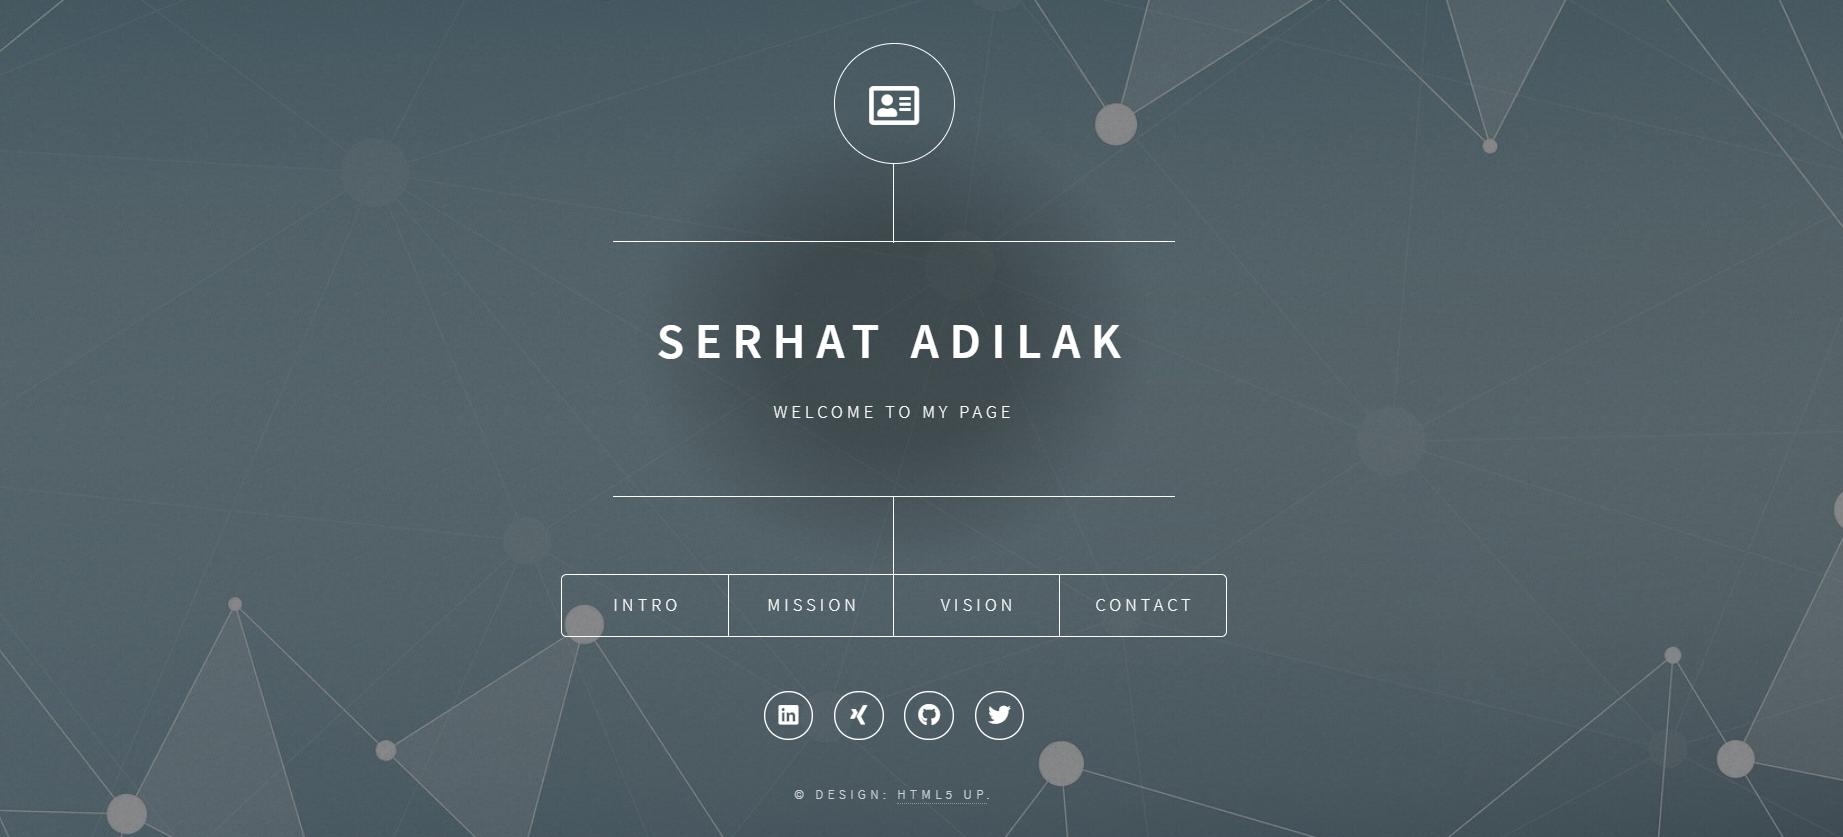
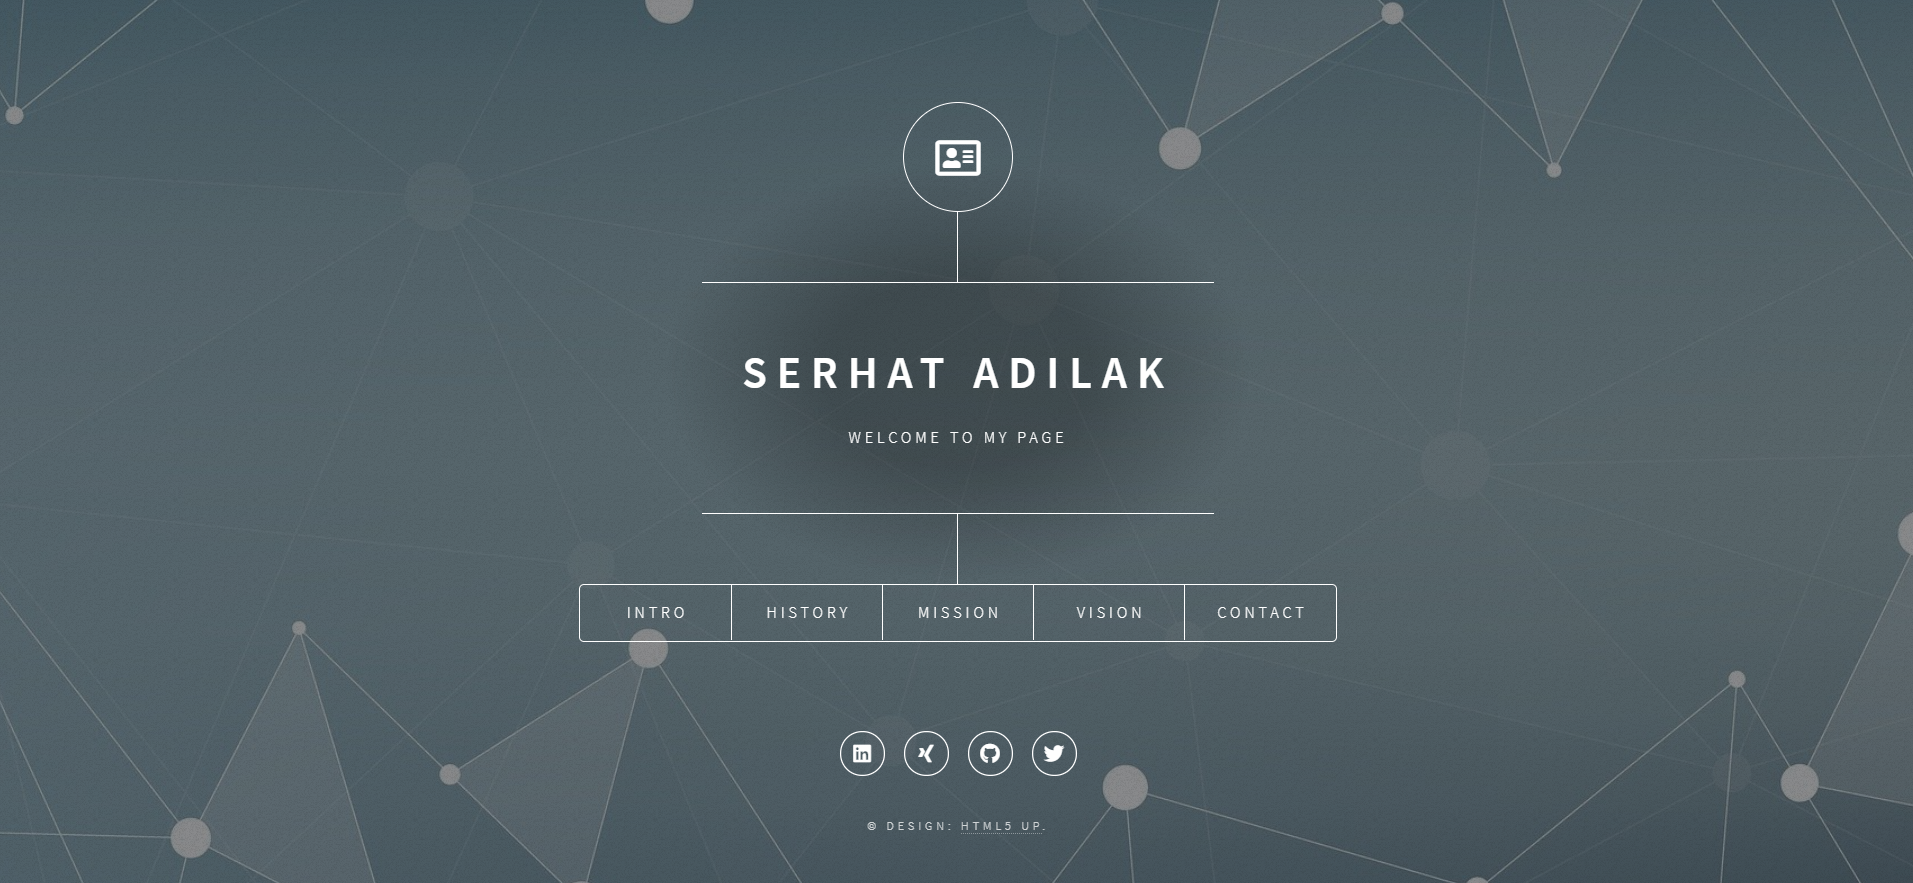
certificate images update

diff --git a/templates/index.html b/templates/index.html
@@ -29,6 +29,7 @@
 						<nav>
 							<ul>
 								<li><a href="#intro">Intro</a></li>
+								<li><a href="#history">History</a></li>
 								<li><a href="#mission">Mission</a></li>
 								<li><a href="#vision">Vision</a></li>
 								<li><a href="#contact">Contact</a></li>
@@ -47,6 +48,19 @@
 								<span class="image main"><img src="../static/assets/images/pic_01_01.jpg" alt="" /></span>
 								<p>I prepared this portfolio page to present myself, focusing on my professional background. I hope that you will find more information about me here. </p> <p> So let's talk about what I'm doing so far. As a CAE Engineer, I do simulations stuff validating future electric vehicle platforms. More specifically, these validations are to ensure the car design to meet modern safety standards for an approval to be placed on a market, wherever the decision makers have chosen that market to be, of course. </p> <p> Yeah, well, maybe if you've asked me ten years ago, as I started my career in auto industry, I would probably say this sentence like this: "I do finite element simulations for static or dynamic analysis of mechanical components in complete vehicle". Hmm, it sounds probably boring compared to the previous one. </p>  <p> Did you also notice that I mentioned the word "electric vehicle" in this second sentence? Nope. Not that I am so bad at forecasting and predicting the future trends, but mainly the work I was doing for the industry was mainly for ICE cars at that time. Then suddenly I found myself doing simulation work for BMW i3, a very innovative electric car design, and then continued working for new challenge and trend.   </p> 
 							</article>
+							
+						<!-- History -->
+							<article id="history">
+								<h2 class="major">History</h2>
+								<span class="image main"><img src="../static/assets/images/pic_history.jpg" alt="" /></span>
+								<p> I started my Bachelor on Mechatronics Engineering at <a href="https://www.sabanciuniv.edu/en" target="_blank">Sabanci University</a> in Istanbul, Turkey. It was an <a href="https://me.sabanciuniv.edu/en" target="_blank">interdisciplinary study</a>, also including social and political science lectures, which provided me intellectual understanding and not only technical knowledge.
+								</p> <p> During my bachelor study, I managed to have my name on a published scientific paper while I was doing my summer internship project in Nanorobotic Lab, Carnegie Mellon Universiy. You can have a look at this paper <a href="https://ieeexplore.ieee.org/document/4543216" target="_blank">here.</a>
+								</p> 
+								<p> Last year on my Bachelor study, I turned my attention on Finite Element Methods. I did a project which was based on FEM simulation of a nano robot scale mechanism. Again you can have a look at this published paper <a href="http://research.sabanciuniv.edu/6249/1/TOK07-Piezo.pdf" target="_blank">here.</a>
+								<p> Then I wanted to increase my knowledge on FEM field and found a Master of Science degree program at Technical University of Munich. The name of the program was called <a href="https://www.bgu.tum.de/come/home/" target="_blank">"Computational Mechanics"</a> and it was a challenging experience in my student life. 
+								</p>
+								<p> After finishing my Master study then I started to work as CAE Engineer in automotive industry. For further information, you can have a look at my CV <a href="https://drive.google.com/file/d/12zMAzGkbAnLDI_51QzkHqtZZgAoTyGV3/view?usp=sharing" target="_blank">here</a> </p> 
+							</article>	
 
 						<!-- Mission -->
 							<article id="mission">
@@ -55,7 +69,7 @@
 								<p> What I am doing in detail? Now, technically speaking, as a skilled expert engineer in FEM analysis, I am simulating sophisticated
 								technical problems, for example, static analysis of high stressed components, modal and frequency analysis of vibrating components, crash simulations, head impact simulations. I am implementing engineering solutions and adapting present knowledge
 								to a new design concept. Past couple of years, I have been simulating crash scenarios, mostly for an early phase vehicle design. </p>
-								<span class="image main"><img src="../static/assets/images/pic_02_01.jpg" alt="" /></span> <p> Currently, I work in an overseas office of a well reputed car company as an SUV maker in China, Great Wall Motors. In Munich office, I am the Crash and passive safety simulation expert who is responsible to deliver crash simulation results of an early-stage development phase for an electric vehicle platform among other experts in their fields. Together we deliver CAE validated designs, mainly conceptual chassis, BiW and assembly components.</p> <span class="image main"><img src="../static/assets/images/pic_02_02.jpg" alt="" /></span> <p> We have started a fully functioning office in Munich from zero with a team of experts in each field, setting up IT/network and hardware, negotiating for software licences, etc. Our simulation team defined post/pre-processing guidelines for each field, modelling standards to enable an efficient collaboration with the CAE teams inside the OEM. </p> <p>  Additionally, flat communication in a small team with experts in each field gave me various technical and non-technical experiences. These enabled me to see the car design process from above in such a multidisciplinary environment. My simulations and validations brought the early stage of the electric car platform design into further development </p> <span class="image main"><img src="../static/assets/images/pic_02_03.jpg" alt="" /></span> <p> Programming/Scripting for an efficient evaluation process was one of my crucial achievements in the absence of an automated CAE environment from the beginning. I increased my programming skills while inventing some evaluation tools (optionally) for the benefit of my company and as a free time activity (simulator program, mobile app etc). Why not to extend my computing and programming experience also in the future promising field "self-driving vehicle development" as well.  </p> <span class="image main"><img src="../static/assets/images/pic_02_04.jpg" alt="" /></span> <p> I have obtained new professional skills as a result of my personal responsibility through my commitment in a “start-up” atmosphere of this Munich overseas office. After many years of experience in automotive industry and car development processes, I see that I can widen my horizon and expand my knowledge whenever I have option to have a full engagement and responsibility on a process.</p> </p> You can have a look at my CV <a href="https://drive.google.com/file/d/12zMAzGkbAnLDI_51QzkHqtZZgAoTyGV3/view?usp=sharing" target="_blank">here</a> <p> 
+								<span class="image main"><img src="../static/assets/images/pic_02_01.jpg" alt="" /></span> <p> Currently, I work in an overseas office of a well reputed car company as an SUV maker in China, Great Wall Motors. In Munich office, I am the Crash and passive safety simulation expert who is responsible to deliver crash simulation results of an early-stage development phase for an electric vehicle platform among other experts in their fields. Together we deliver CAE validated designs, mainly conceptual chassis, BiW and assembly components.</p> <span class="image main"><img src="../static/assets/images/pic_02_02.jpg" alt="" /></span> <p> We have started a fully functioning office in Munich from zero with a team of experts in each field, setting up IT/network and hardware, negotiating for software licences, etc. Our simulation team defined post/pre-processing guidelines for each field, modelling standards to enable an efficient collaboration with the CAE teams inside the OEM. </p> <p>  Additionally, flat communication in a small team with experts in each field gave me various technical and non-technical experiences. These enabled me to see the car design process from above in such a multidisciplinary environment. My simulations and validations brought the early stage of the electric car platform design into further development </p> <span class="image main"><img src="../static/assets/images/pic_02_03.jpg" alt="" /></span> <p> Programming/Scripting for an efficient evaluation process was one of my crucial achievements in the absence of an automated CAE environment from the beginning. I increased my programming skills while inventing some evaluation tools (optionally) for the benefit of my company and as a free time activity (simulator program, mobile app etc). Why not to extend my computing and programming experience also in the future promising field "self-driving vehicle development" as well.  </p> <span class="image main"><img src="../static/assets/images/pic_02_04.jpg" alt="" /></span> <p> I have obtained new professional skills as a result of my personal responsibility through my commitment in a “start-up” atmosphere of this Munich overseas office. After many years of experience in automotive industry and car development processes, I see that I can widen my horizon and expand my knowledge whenever I have option to have a full engagement and responsibility on a process.</p> 
 							</article>
 
 						<!-- Vision -->
@@ -63,7 +77,10 @@
 								<h2 class="major">Vision</h2>
 								<span class="image main"><img src="../static/assets/images/pic_03_00.jpg" alt="" /></span>
 								<p> Everything is changing, modifying itself to a new world of technology. Engineers like any others need to update themselves. Let's take CAE for example, which is my expertise, FEM gained its popularity with computers emerging in the worldwide market. As new challenges appeared, new methodologies also appeared in this field. </p> <p> Iso-geometric analysis is a meshless method to provide directly mathematical formulations of models from their geometrical representation with NURBS, Splines. As computing technology evolved, even FEM mesh models with small element sizes continued to be used until today. Complexity of models is increasing to have accurate results, on the other hand, this is a challenge for FEM because more data, meaning more data storage and computer power, is required. </p> <p> CAE Future is in the hands of computers. Seriously, maybe you think "CAE means: computer aided engineering, so anything new?". But think about it, computers are there to help the expert doing pre and post processing. 100% computer decision is only taken in the "solution step", meaning "solvers". Therefore, still many decisions are taken by experts on the post processing for example. So a human is deciding on an evaluation process, which is somehow not sooo accurate, right? </p> <p> New considerations are taken now to overcome this challenge: more probable human made errors on much bigger data and more complex models. We will hear more in the future, also in CAE field, these words: "machine learning, deep learning, artificial intelligence, neural networks". Experts and computers have been collaborating so far on evaluation process via scripting, toolboxes and mostly "session files". This very "expert dependent" task is vulnerable. However, computers need sufficient amount of data to decide like an "expert" for an evaluation. This data can be collected wisely, intentionally with the help of machine learning algorithms, to teach the computer to take a decision for a probable case even no simulation is done for that particular case yet! Sounds cool, and it is being a reality step by step.  </p> <p> After setting the background, I can now say that I did not sit and wait for a next task to have. But I started to learn more on those topics, developed my computer science knowledge. Programming ability is a "must-have" for CAE engineers, and also for any kind of engineers. </p> <p> Lets have a look at my recent certificates on my e-learning activities (partially selected ones): 
-								<span class="image main"><img src="../static/assets/images/combined_certificates.jpg" alt="" /></span> 
+								<span class="image main"><img src="../static/assets/images/MachineLearning_01.jpg" alt="" /></span> 
+								<span class="image main"><img src="../static/assets/images/DataStructures.jpg" alt="" /></span> 
+								<span class="image main"><img src="../static/assets/images/PythonDev.jpg" alt="" /></span> 
+								<span class="image main"><img src="../static/assets/images/combined_certificates_01.jpg" alt="" /></span> 
 								</p> <p> Learning is just a start and it is not completed until an action is taken. Action is "learning by doing" and practicing with various self-made projects. For that reason, I started to do different programming projects, as a daily routine, a hobby and an entertaining activity. If a new habit is not considered as a hobby, in other words, if it does not enjoy you, then it is not easy to develop skill for that new habit. My other hobbies: I like playing chess, playing my musical instrument baglama, a turkish guitar:), reading books and learning new things.  </p> <p> Last but not least, you can look at my GitHub profile on the main menu. You will have more idea on my other projects. Whenever a new idea appears in my mind, when this idea is validated and if it is also implemented in a virtual environment, then you will be the one who will hear first. Then why not, feel free to contact me! </p>
 							</article>
 														
